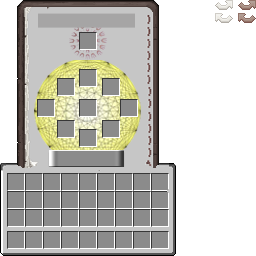
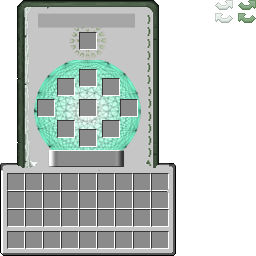
Added Evil Tablet and updated Summoning Book texture

diff --git a/MCP/src/common/demonmodders/Crymod/Common/Items/ItemCryMod.java b/MCP/src/common/demonmodders/Crymod/Common/Items/ItemCryMod.java
@@ -3,12 +3,14 @@ package demonmodders.Crymod.Common.Items;
 import cpw.mods.fml.common.Side;
 import cpw.mods.fml.common.asm.SideOnly;
 import demonmodders.Crymod.Common.Crymod;
+import demonmodders.Crymod.Common.Gui.GuiType;
 import net.minecraft.src.CreativeTabs;
 import net.minecraft.src.Item;
 
 public class ItemCryMod extends Item {
 
 	public static Item summoningBook;
+	public static Item evilTablet;
 	
 	public ItemCryMod(int itemId) {
 		super(itemId);
@@ -20,7 +22,8 @@ public class ItemCryMod extends Item {
 	}
 	
 	public static void createItems() {
-		summoningBook = new ItemSummoningBook(Crymod.conf.getItem("summoningBookId", 4765).getInt());
+		summoningBook = new ItemSummoningBook(GuiType.SUMMONING_BOOK, Crymod.conf.getItem("summoningBookId", 4765).getInt()).setIconIndex(0).setItemName("summoningBook");
+		evilTablet = new ItemSummoningBook(GuiType.EVIL_TABLET, Crymod.conf.getItem("evilTabletId", 4766).getInt()).setIconIndex(1).setItemName("evilTablet");
 	}
 
 	@Override

diff --git a/MCP/src/minecraft/demonmodders/Crymod/Client/Gui/GuiSummoningBook.java b/MCP/src/minecraft/demonmodders/Crymod/Client/Gui/GuiSummoningBook.java
@@ -10,13 +10,16 @@ public class GuiSummoningBook extends GuiContainer {
 	private static final int EFFECTIVE_HEIGHT = 256;
 	private static final int EFFECTIVE_WIDTH = 176;
 	
-	public GuiSummoningBook(Container container) {
+	private final String texture;
+	
+	public GuiSummoningBook(String texture, Container container) {
 		super(container);
+		this.texture = texture;
 	}
 
 	@Override
 	protected void drawGuiContainerBackgroundLayer(float var1, int var2, int var3) {
-		int texture = mc.renderEngine.getTexture("/crymodResource/tex/summoningBook.png");
+		int texture = mc.renderEngine.getTexture(this.texture);
         GL11.glColor4f(1.0F, 1.0F, 1.0F, 1.0F);
         mc.renderEngine.bindTexture(texture);
         drawTexturedModalRect(width / 2 - EFFECTIVE_WIDTH / 2, height / 2 - EFFECTIVE_HEIGHT / 2, 0, 0, EFFECTIVE_WIDTH, EFFECTIVE_HEIGHT);

diff --git a/MCP/src/common/demonmodders/Crymod/Common/Items/ItemSummoningBook.java b/MCP/src/common/demonmodders/Crymod/Common/Items/ItemSummoningBook.java
@@ -8,11 +8,11 @@ import net.minecraft.src.World;
 
 public class ItemSummoningBook extends ItemCryMod {
 
-	public ItemSummoningBook(int itemId) {
+	private final GuiType guiType;
+	
+	public ItemSummoningBook(GuiType guiType, int itemId) {
 		super(itemId);
-		setIconIndex(0);
-		setItemName("summoningBook");
-		System.out.println(getLocalItemName(null));
+		this.guiType = guiType;
 	}
 
 	@Override
@@ -24,7 +24,7 @@ public class ItemSummoningBook extends ItemCryMod {
 	@Override
 	public ItemStack onItemRightClick(ItemStack itemStack, World world, EntityPlayer player) {
 		if (!world.isRemote) {
-			player.openGui(Crymod.instance, GuiType.SUMMONING_BOOK.getGuiId(), world, 0, 0, 0);
+			player.openGui(Crymod.instance, guiType.getGuiId(), world, 0, 0, 0);
 		}
 		return itemStack;
 	}

diff --git a/MCP/src/minecraft/demonmodders/Crymod/Client/ClientProxy.java b/MCP/src/minecraft/demonmodders/Crymod/Client/ClientProxy.java
@@ -15,7 +15,9 @@ public class ClientProxy extends CommonProxy {
 	public Object getClientGuiElement(Container container, int id, EntityPlayer player, World world, int x, int y, int z) {
 		switch (GuiType.fromGuiId(id)) {
 		case SUMMONING_BOOK:
-			return new GuiSummoningBook(container);
+			return new GuiSummoningBook("/crymodResource/tex/summoningBook.png", container);
+		case EVIL_TABLET:
+			return new GuiSummoningBook("/crymodResource/tex/evilTablet.png", container);
 		default:
 			return null;
 		}

diff --git a/MCP/src/common/demonmodders/Crymod/Common/Gui/CrymodGuiHandler.java b/MCP/src/common/demonmodders/Crymod/Common/Gui/CrymodGuiHandler.java
@@ -16,6 +16,7 @@ public class CrymodGuiHandler implements IGuiHandler {
 	public Object getServerGuiElement(int ID, EntityPlayer player, World world, int x, int y, int z) {
 		switch (GuiType.fromGuiId(ID)) {
 		case SUMMONING_BOOK:
+		case EVIL_TABLET:
 			return new ContainerSummoningBook(new InventorySummoningBook(player.getCurrentEquippedItem(), player), player.inventory);
 		default:
 			return null;

diff --git a/MCP/src/common/demonmodders/Crymod/Common/LanguageLoader.java b/MCP/src/common/demonmodders/Crymod/Common/LanguageLoader.java
@@ -38,7 +38,6 @@ public class LanguageLoader {
 					String key = line.substring(0, colonIndex);
 					String value = line.substring(colonIndex + COMMENT.length());
 					LanguageRegistry.instance().addStringLocalization(key, value);
-					System.out.println(key + ": " + value);
 				}
 			}
 		} catch (Exception e) {

diff --git a/MCP/src/common/demonmodders/Crymod/Common/Gui/GuiType.java b/MCP/src/common/demonmodders/Crymod/Common/Gui/GuiType.java
@@ -1,7 +1,7 @@
 package demonmodders.Crymod.Common.Gui;
 
 public enum GuiType {
-	SUMMONING_BOOK;
+	SUMMONING_BOOK, EVIL_TABLET;
 	
 	public int getGuiId() {
 		return ordinal();
